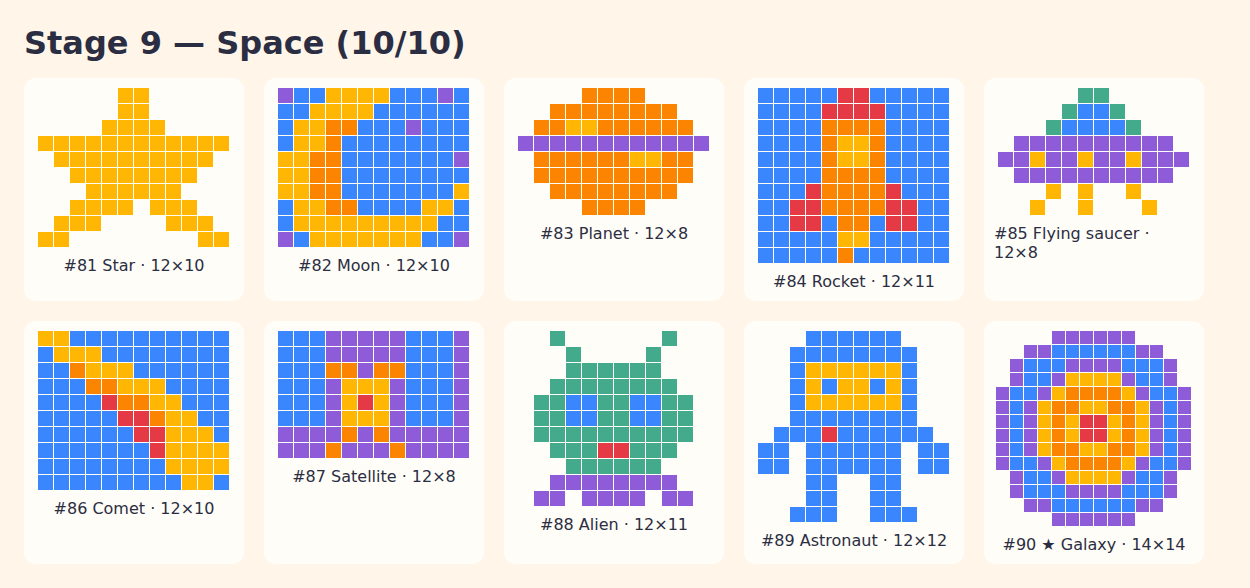
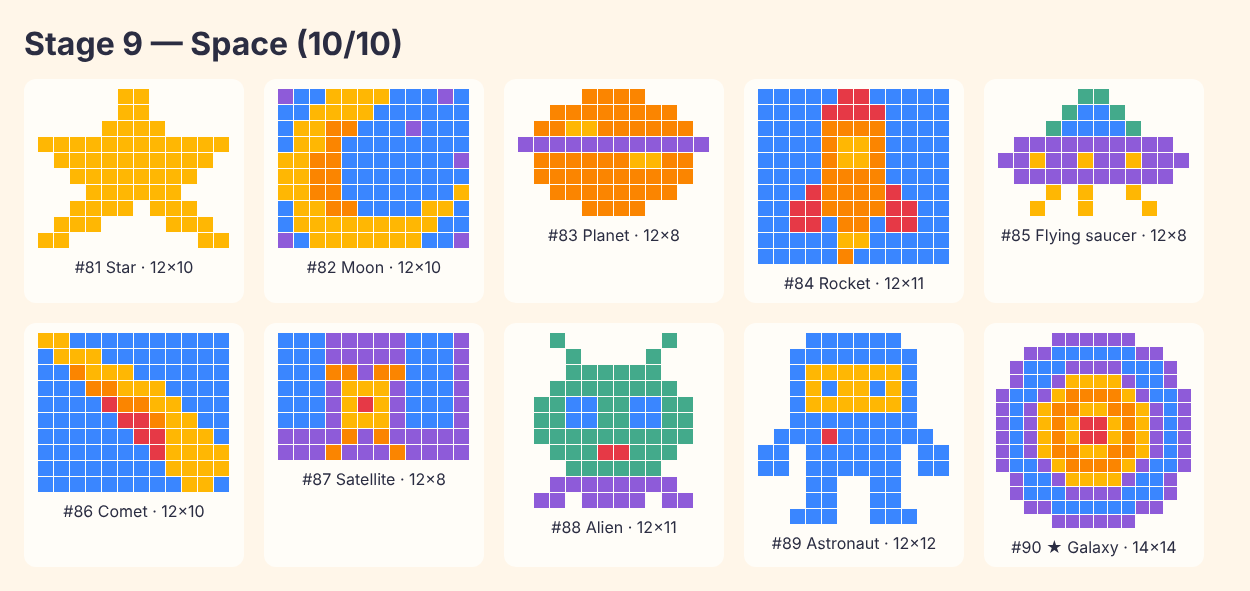
Universo 1: la pietra debutta nei livelli 81–100 (Refs #157) (#173)
Il 81 (stella) introduce la pietra con due pietre disegnate a mano; 85 e 88 la riprendono.
Il 141 non è più il debutto (slot 3 → 2, 91%). Nessuna finestra di 20 livelli senza novità.

Claude-Session: https://claude.ai/code/session_01LpsC54mdPn8qhhRfiMtYDP

diff --git a/e2e/stone-debut.spec.ts b/e2e/stone-debut.spec.ts
@@ -2,7 +2,7 @@ import { expect, test, type Page } from '@playwright/test';
 import type { Move } from '../src/core/solver';
 import { checkOnScreen, dismissTip, mix, openLevel, play, shots, waitScene, waitSim } from './helpers';
 
-/** Stage 15 "Giungla" (#125): stones debut at level 141, the papaya, with their one-time tip. */
+/** Stones debut at level 81, the star (#157, was the star 81 in #125), with their one-time tip. */
 const KEY = 'mix-and-splash/progress/v1';
 const range = (a: number, b: number) => Array.from({ length: b - a + 1 }, (_, i) => a + i);
 const TIPS = ['guide', 'mixing', 'blocked', 'slots', 'ice', 'hidden', 'belt', 'brown'];
@@ -18,29 +18,29 @@ async function start(page: Page, save: object) {
 
 const saved = (page: Page) => page.evaluate((key) => JSON.parse(localStorage.getItem(key)!), KEY);
 
-test('stones debut at level 141: the tip explains them once, a shot stops on a stone, the papaya is won', async ({ page }) => {
+test('stones debut at level 81: the tip explains them once, a shot stops on a stone, the star is won', async ({ page }) => {
   test.setTimeout(180_000);
-  await start(page, { unlocked: 141, completed: range(1, 140) });
-  await openLevel(page, 141);
-  expect(await mix(page, 'levelId')).toBe(141);
+  await start(page, { unlocked: 81, completed: range(1, 80) });
+  await openLevel(page, 81);
+  expect(await mix(page, 'levelId')).toBe(81);
   expect(await mix<number>(page, 'stones')).toBe(2);
   await page.waitForFunction(() => (window as unknown as { __mix: { tip: string | null } }).__mix.tip === 'stone');
-  await checkOnScreen(page, 'level 141, stone tip card');
+  await checkOnScreen(page, 'level 81, stone tip card');
   if (shots) await page.screenshot({ path: `${shots}/01-suggerimento-pietra.png` });
   expect(await dismissTip(page)).toBe('stone');
-  if (shots) await page.screenshot({ path: `${shots}/02-papaia-con-pietre.png` });
+  if (shots) await page.screenshot({ path: `${shots}/02-stella-con-pietre.png` });
 
   expect(await play(page, await mix<Move[]>(page, 'solution'))).toEqual([]);
   await waitSim(page, () => (window as unknown as { __mix: { overlay: string } }).__mix.overlay === 'win');
-  // The stones sit between orange pixels of one row: once the near one is done, a shot for the far one meets a stone.
+  // The stones sit between yellow pixels of one row: once the near one is done, a shot for the far one meets a stone.
   expect(await mix<number>(page, 'stoneSplashes')).toBeGreaterThan(0);
-  if (shots) await page.screenshot({ path: `${shots}/03-papaia-vinta.png` });
+  if (shots) await page.screenshot({ path: `${shots}/03-stella-vinta.png` });
   expect((await saved(page)).seenTips).toContain('stone');
 
-  // Shown only once: back on level 141 after a reload, nothing new to explain.
+  // Shown only once: back on level 81 after a reload, nothing new to explain.
   await page.reload();
   await waitScene(page, 'menu');
-  await openLevel(page, 141);
-  expect(await mix(page, 'levelId')).toBe(141);
+  await openLevel(page, 81);
+  expect(await mix(page, 'levelId')).toBe(81);
   expect(await mix(page, 'tip')).toBeNull();
 });

diff --git a/tests/stone.test.ts b/tests/stone.test.ts
@@ -6,6 +6,7 @@ import { HOWTO_PAGES } from '../src/core/howto';
 import { DICTIONARIES } from '../src/core/i18n';
 import { buildLanes, checkReachable, paintNeeds, parseImage, parseLevel, parseOverlay, walledIn, LevelError, type LevelDef } from '../src/core/level';
 import { tipOnLevelStart } from '../src/core/onboarding';
+import { novelties, noveltyGaps } from '../src/core/curveReport';
 import { createRng } from '../src/core/rng';
 import { blockingStone, boardDone, cellDone, createBoard, findTarget } from '../src/core/rules';
 import { createGame, launchFromColumn, step } from '../src/core/sim';
@@ -196,18 +197,19 @@ describe('stone: onboarding and curve', () => {
   });
 });
 
-describe('stone: debut at level 141 (#125)', () => {
-  const debut = parseLevel((levels as LevelDef[]).find((d) => d.id === 141)!);
+describe('stone: debut at level 81 (#157, was 141 in #125)', () => {
+  const debut = parseLevel((levels as LevelDef[]).find((d) => d.id === 81)!);
 
   it('is the first level with stones, which opens with the one-time stone tip', () => {
-    expect((levels as LevelDef[]).filter((d) => d.id < 141).every((d) => !parseLevel(d).stone.some(Boolean))).toBe(true);
+    expect((levels as LevelDef[]).filter((d) => d.id < 81).every((d) => !parseLevel(d).stone.some(Boolean))).toBe(true);
     expect(debut.stone.some(Boolean)).toBe(true);
-    expect(tipOnLevelStart(debut, ['mixing', 'blocked', 'slots', 'ice', 'hidden', 'belt', 'brown'])).toBe('stone');
+    expect(tipOnLevelStart(debut, ['mixing', 'blocked', 'slots', 'ice', 'hidden', 'belt'])).toBe('stone');
     expect(solve(debut).solvable).toBe(true);
   });
 
   it('puts its stones between two pixels of one row, so a shot is stopped on the way to the far one', () => {
     const { width } = debut;
+    expect(debut.stone.filter(Boolean).length).toBe(2);
     for (const [cell, isStone] of debut.stone.entries()) {
       if (!isStone) continue;
       const row = Math.floor(cell / width);
@@ -216,5 +218,18 @@ describe('stone: debut at level 141 (#125)', () => {
       expect(before.length).toBeGreaterThan(0);
       expect(after.length).toBeGreaterThan(0);
     }
+  });
+
+  it('is followed by stones in 85 and 88 and is still before the brown debut (101)', () => {
+    const withStone = (levels as LevelDef[]).filter((d) => d.id <= 100 && parseLevel(d).stone.some(Boolean)).map((d) => d.id);
+    expect(withStone).toEqual([81, 85, 88]);
+  });
+});
+
+describe('a novelty in every 20-level window of the whole game (#157)', () => {
+  it('leaves no window from level 21 on without a new mechanic or combination', () => {
+    const curve = (levels as LevelDef[]).map((d) => curveLevel(parseLevel(d), 0.5));
+    expect(noveltyGaps(curve, 21, curve.length)).toEqual([]);
+    expect(novelties(curve).filter((n) => n.id >= 81 && n.id <= 100).map((n) => n.name)).toContain('stone');
   });
 });

diff --git a/scripts/stages/stage-09.ts b/scripts/stages/stage-09.ts
@@ -4,13 +4,15 @@ import type { StageSpec } from './types';
  * Stage 9 — Spazio (ticket #38).
  * Tutte le meccaniche, tele fino a 14×14.
  * Nastro 2 in tutto lo stage (#75).
+ * Pietre (#157): la stella (81) debutta la pietra, con due pietre disegnate a mano tra i pixel di una riga (un colpo si
+ * ferma per forza); 85 e 88 la riprendono con `special`. Così la finestra 81–100 ha la sua novità.
  * winRate = difficulty band for a random tapper (see levelWinRate): belt and slots both weigh in; `special` places ice/hidden pixels.
  */
 const stage: StageSpec = {
   stage: 9, key: 'space', color: 'B',
   complete: true,
   levels: [
-    { name: 'star', columns: 4, ammoChunk: 8, slots: 3, beltCapacity: 2, special: { ice: 3, hidden: 2 }, winRate: [0.68, 1], seed: 9000, image: [
+    { name: 'star', columns: 4, ammoChunk: 8, slots: 3, beltCapacity: 2, winRate: [0.68, 1], seed: 9000, image: [
       '.....YY.....',
       '.....YY.....',
       '....YYYY....',
@@ -21,6 +23,17 @@ const stage: StageSpec = {
       '..YYYY.YYY..',
       '.YYY....YYY.',
       'YY........YY',
+    ], overlay: [
+      '......i.....',
+      '............',
+      '............',
+      '....h.......',
+      '............',
+      '.....i......',
+      '.......i....',
+      '...h..s.....',
+      '.....s......',
+      '............',
     ] },
     { name: 'moon', columns: 4, ammoChunk: 12, slots: 2, beltCapacity: 2, special: { ice: 3, hidden: 2 }, winRate: [0.8, 0.88], seed: 9037, image: [
       'PBBYYYYBBBPB',
@@ -57,7 +70,7 @@ const stage: StageSpec = {
       'BBBBBYYBBBBB',
       'BBBBBOBBBBBB',
     ] },
-    { name: 'ufo', columns: 4, ammoChunk: 12, slots: 2, beltCapacity: 2, special: { ice: 4, hidden: 3 }, winRate: [0.54, 0.74], seed: 9148, image: [
+    { name: 'ufo', columns: 4, ammoChunk: 12, slots: 2, beltCapacity: 2, special: { ice: 4, hidden: 3, stone: 3 }, winRate: [0.5, 0.64], seed: 9148, image: [
       '.....GG.....',
       '....GBBG....',
       '...GBBBBG...',
@@ -89,7 +102,7 @@ const stage: StageSpec = {
       'PPPPOPOPPPPP',
       'PPPOPPPOPPPP',
     ] },
-    { name: 'alien', columns: 4, ammoChunk: 18, slots: 2, beltCapacity: 2, special: { ice: 5, hidden: 4 }, winRate: [0.51, 0.68], seed: 9259, image: [
+    { name: 'alien', columns: 4, ammoChunk: 18, slots: 2, beltCapacity: 2, special: { ice: 5, hidden: 4, stone: 3 }, winRate: [0.47, 0.65], seed: 9259, image: [
       '..G......G..',
       '...G....G...',
       '...GGGGGG...',

diff --git a/tests/stage15.test.ts b/tests/stage15.test.ts
@@ -7,7 +7,7 @@ import { parseLevel, type LevelDef } from '../src/core/level';
 import { levelWinRate } from '../src/core/solver';
 import stage from '../scripts/stages/stage-15';
 
-/** Stage 15 "Giungla" (#125): stones debut at level 141, then stones alone, levels 141–150. */
+/** Stage 15 "Giungla" (#125): stones alone, levels 141–150 (the stone debut moved to level 81 in #157). */
 const defs = (levels as LevelDef[]).filter((d) => d.stage === 15);
 const parsed = defs.map((d) => parseLevel(d));
 let rates: number[] | undefined;
@@ -43,24 +43,23 @@ describe('stage 15 — Jungle', () => {
       expect(l.hidden.some(Boolean)).toBe(false);
       expect(l.beltCapacity).toBe(2);
     }
-    // After the debut, belt and slots are no bigger than the end of universe 1.
-    for (const l of parsed.slice(1)) expect(l.slots).toBe(2);
+    // Stones are no longer new here: belt and slots are no bigger than the end of universe 1 from the first level.
+    for (const l of parsed) expect(l.slots).toBe(2);
   });
 
-  it('draws figures with at least 30% secondary pixels after the debut', () => {
+  it('draws figures with at least 30% secondary pixels after the first (the hand-drawn papaya)', () => {
     for (const l of parsed.slice(1)) {
       const pixels = l.targets.filter((t) => t !== 0);
       expect(pixels.filter((t) => !isPrimary(t)).length / pixels.length).toBeGreaterThanOrEqual(CURVE.minSecondaryShare);
     }
   });
 
-  it('follows the saw-tooth (#88): only the debut is very easy, the boss is the hardest', () => {
+  it('follows the saw-tooth (#88): no level is very easy (stones debuted at 81), the boss is the hardest', () => {
     const curve = parsed.map((l, i) => curveLevel(l, winRates()[i]!));
     expect(checkCurve(curve)).toEqual([]);
-    expect(winRates()[0]).toBeGreaterThanOrEqual(CURVE.veryEasy);
-    expect(winRates().slice(1).filter((r) => r >= CURVE.veryEasy)).toEqual([]);
+    expect(winRates().filter((r) => r >= CURVE.veryEasy)).toEqual([]);
     expect(Math.min(...winRates())).toBe(winRates()[9]);
-    // Between stage 14 (~75%) and the end of universe 2 (~62%), the easy debut included.
+    // Between stage 14 (~75%) and the end of universe 2 (~62%).
     const mean = winRates().reduce((a, b) => a + b, 0) / 10;
     expect(mean).toBeGreaterThan(0.62);
     expect(mean).toBeLessThan(0.75);

diff --git a/scripts/stages/stage-15.ts b/scripts/stages/stage-15.ts
@@ -2,8 +2,8 @@ import type { StageSpec } from './types';
 
 /**
  * Stage 15 — Giungla, quinto stage dell'universo 2 "Natura" (#125, #100).
- * Debutto della pietra (#95): la papaia (141) è molto facile e insegna senza punire, con due pietre disegnate a mano tra
- * la polpa, dove un colpo si ferma per forza. Dal 142 le pietre vanno nei buchi e sui bordi delle figure (`special`).
+ * La pietra debutta nell'universo 1 (81 Stella, #157, dopo il #95): la papaia (141) la riprende senza punire, con due pietre
+ * disegnate a mano tra la polpa, dove un colpo si ferma per forza. Dal 142 le pietre vanno nei buchi e sui bordi delle figure (`special`).
  * Nessun'altra meccanica nello stage (niente marrone: marrone + pietra è la combinazione nuova dello stage 17).
  * Nastro 2 e slot 2 dopo il debutto, come la fine dell'universo 1. Difficile: il pitone; boss: il tempio.
  * winRate = difficulty band for a random tapper (see levelWinRate): belt and slots both weigh in; `special` places stones.
@@ -12,7 +12,7 @@ const stage: StageSpec = {
   stage: 15, key: 'jungle', color: 'G',
   complete: true,
   levels: [
-    { name: 'papaya', columns: 3, ammoChunk: 10, slots: 3, beltCapacity: 2, winRate: [0.95, 1], seed: 15000, image: [
+    { name: 'papaya', columns: 3, ammoChunk: 10, slots: 2, beltCapacity: 2, winRate: [0.8, 0.93], seed: 15000, image: [
       '..GGGG..',
       '.GOOOOG.',
       'GOOOOOOG',

diff --git a/tests/playtest.test.ts b/tests/playtest.test.ts
@@ -310,11 +310,11 @@ describe('saves and plans', () => {
     expect(startSaveOf(save)).toEqual({ unlocked: 50, completedThrough: 49, seenTips: save.seenTips });
   });
 
-  it('the save of universe 2 matches the protocol of #67 (universe 1 tips, brown still to come)', () => {
+  it('the save of universe 2 matches the protocol of #67 (universe 1 tips, stones included since #157; brown still to come)', () => {
     const start = packLevels(levels, 'S11')[0]!;
     const save = saveFor(levels, start, 'it');
     expect(save.completed).toHaveLength(start - 1);
-    expect([...save.seenTips].sort()).toEqual(['belt', 'blocked', 'guide', 'hidden', 'ice', 'mixing', 'slots']);
+    expect([...save.seenTips].sort()).toEqual(['belt', 'blocked', 'guide', 'hidden', 'ice', 'mixing', 'slots', 'stone']);
   });
 
   it('rejects an unknown language or level and a level the game would not open', () => {

diff --git a/scripts/preview-levels.ts b/scripts/preview-levels.ts
@@ -14,7 +14,8 @@ import { css, PAINT } from '../src/game/theme';
 const levels = (levelsJson as LevelDef[]).map(parseLevel);
 const dir = new URL('../docs/levels/', import.meta.url).pathname;
 mkdirSync(dir, { recursive: true });
-const browser = await chromium.launch();
+// CHROMIUM_PATH: the cloud container's preinstalled Chromium (/opt/pw-browsers/chromium), as in difficulty-report.ts.
+const browser = await chromium.launch(process.env.CHROMIUM_PATH ? { executablePath: process.env.CHROMIUM_PATH } : {});
 
 for (const stage of stagesJson as StageInfo[]) {
   const inStage = levels.filter((l) => l.stage === stage.id);

diff --git a/CHANGELOG.md b/CHANGELOG.md
@@ -2,6 +2,13 @@
 
 ## Non rilasciato
 
+### Universo 1: la pietra debutta nei livelli 81–100 (#157, epic #87)
+
+- **Novità nella finestra 81–100**, l'unica del gioco che ne era priva: la **pietra** (già nel gioco dal 141) debutta al livello 81, la stella, con due pietre disegnate a mano tra i pixel di una riga (un colpo si ferma per forza); il suggerimento compare una volta. La riprendono 85 (ufo) e 88 (alieno) con pietre messe dal generatore. Ghiaccio e nascosti restano come prima: il 81 è la combinazione nuova ghiaccio + nascosti + pietra.
+- **Il 141 non è più il debutto**: la papaia (slot 3 → 2, vittorie a caso 100% → 91%) è ora un normale primo livello dell'universo 2, fuori dalla regola "molto facile solo se debutto". Id, nomi e numero dei livelli non cambiano, quindi i progressi restano validi; cambiano solo 81, 85, 88 e 141.
+- **Curva** non peggiorata: stage 9 da 63,9% a 64,5% (l'85 passa da 57,5% a 62%, l'88 da 62,5% a 60,5%), stage 10 invariato (65%), stage 15 da 73% a 72%. Il controllo "una novità ogni 20 livelli" passa su tutto il gioco (finestre vuote dal 21: nessuna).
+- Test: la pietra debutta al 81 (primo livello con pietre, suggerimento, pietre tra due pixel di una riga, solo 81/85/88 prima del 101), nessuna finestra di 20 livelli senza novità sul gioco vero; l'e2e del debutto passa dal 141 all'81 (`e2e/stone-debut.spec.ts`). `preview:levels` accetta `CHROMIUM_PATH` come `difficulty-report`.
+
 ### Stage 20 "Vulcano": livelli 191–200, fine dell'universo 2 (#130)
 
 - **Dieci figure in pixel art originale** sul vulcano (`scripts/stages/stage-20.ts`): goccia di lava, ossidiana, geyser, salamandra pezzata, roccia lavica, cristalli di zolfo, fenice, sorgente termale, colata di lava e il boss, l'eruzione (14×14). Foglio di anteprima in `docs/levels/stage-20.png`; nomi IT/EN.
